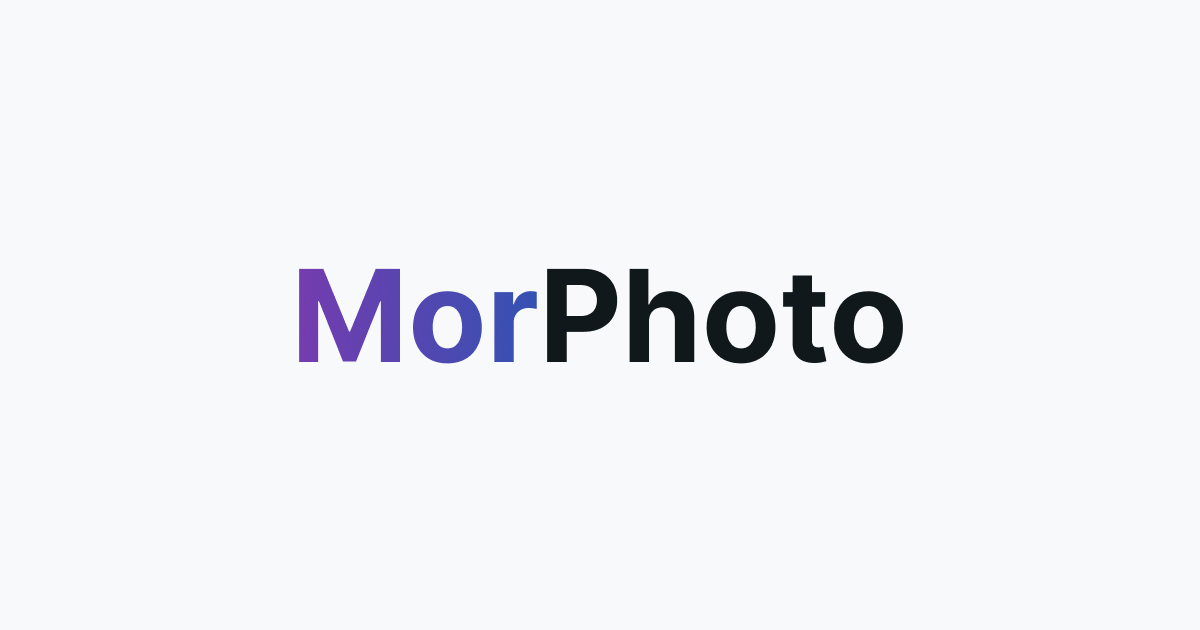
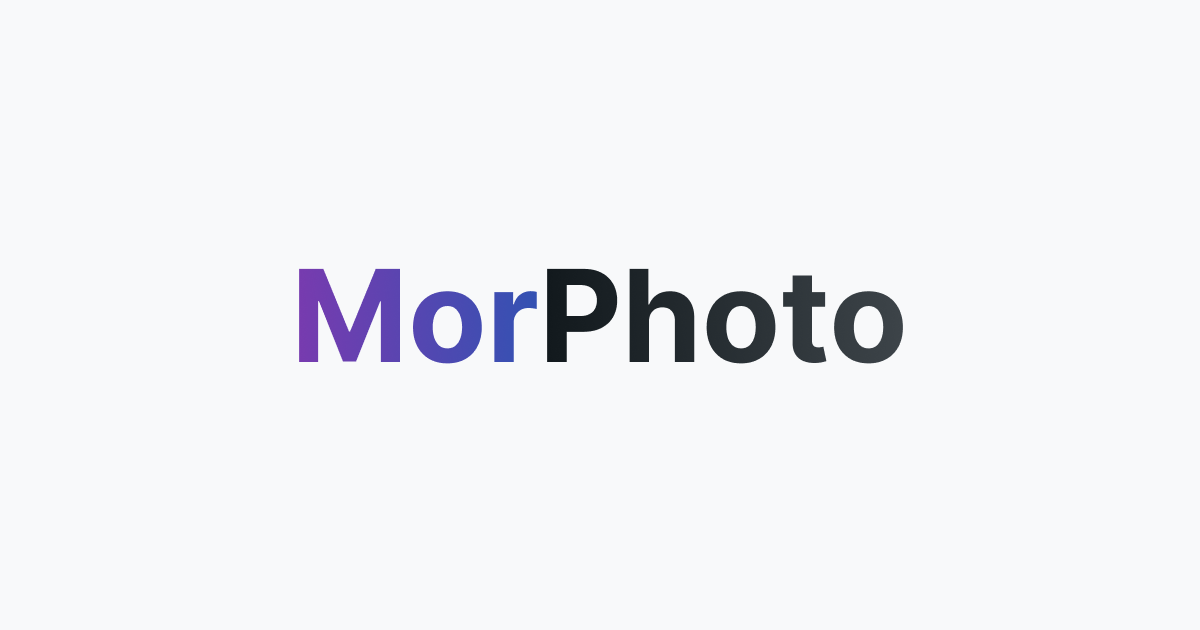
gray gradation

Changed region(s): [[0.6167, 0.4222, 0.7708, 0.573]]

diff --git a/client/src/app/_components/morphoto-header/morphoto-header.tsx b/client/src/app/_components/morphoto-header/morphoto-header.tsx
@@ -1,6 +1,5 @@
 import { Header } from "@/ui";
 import { ComponentPropsWithoutRef, forwardRef } from "react";
-import Image from "next/image";
 import Link from "next/link";
 
 import * as styles from "./morphoto-header.css";
@@ -14,7 +13,8 @@ export const MorphotoHeader = forwardRef<HTMLElement, Props>(({}, ref) => {
       leftChildren={
         <h1 className={styles.logoStyle}>
           <Link href={"/"}>
-            <span className={styles.logoBlueStyle}>Mor</span>Photo
+            <span className={styles.logoBlueStyle}>Mor</span>
+            <span className={styles.logoGrayStyle}>Photo</span>
           </Link>
         </h1>
       }

diff --git a/client/src/app/create/_components/title/title.css.ts b/client/src/app/create/_components/title/title.css.ts
@@ -1,5 +1,4 @@
 import { style, styleVariants } from "@vanilla-extract/css";
-import { slate } from "@radix-ui/colors";
 
 const base = style({ fontSize: 42 });
 
@@ -7,7 +6,10 @@ export const titleVariantStyle = styleVariants({
   default: [
     base,
     {
-      color: slate.slate12,
+      display: "inline-block",
+      background: "linear-gradient(90deg, #11181C, #3D4449)",
+      WebkitBackgroundClip: "text",
+      WebkitTextFillColor: "transparent",
     },
   ],
   primary: [

diff --git a/client/src/app/_components/morphoto-header/morphoto-header.css.ts b/client/src/app/_components/morphoto-header/morphoto-header.css.ts
@@ -17,3 +17,10 @@ export const logoBlueStyle = style({
   WebkitBackgroundClip: "text",
   WebkitTextFillColor: "transparent",
 });
+
+export const logoGrayStyle = style({
+  display: "inline-block",
+  background: "linear-gradient(90deg, #11181C, #3D4449)",
+  WebkitBackgroundClip: "text",
+  WebkitTextFillColor: "transparent",
+});
